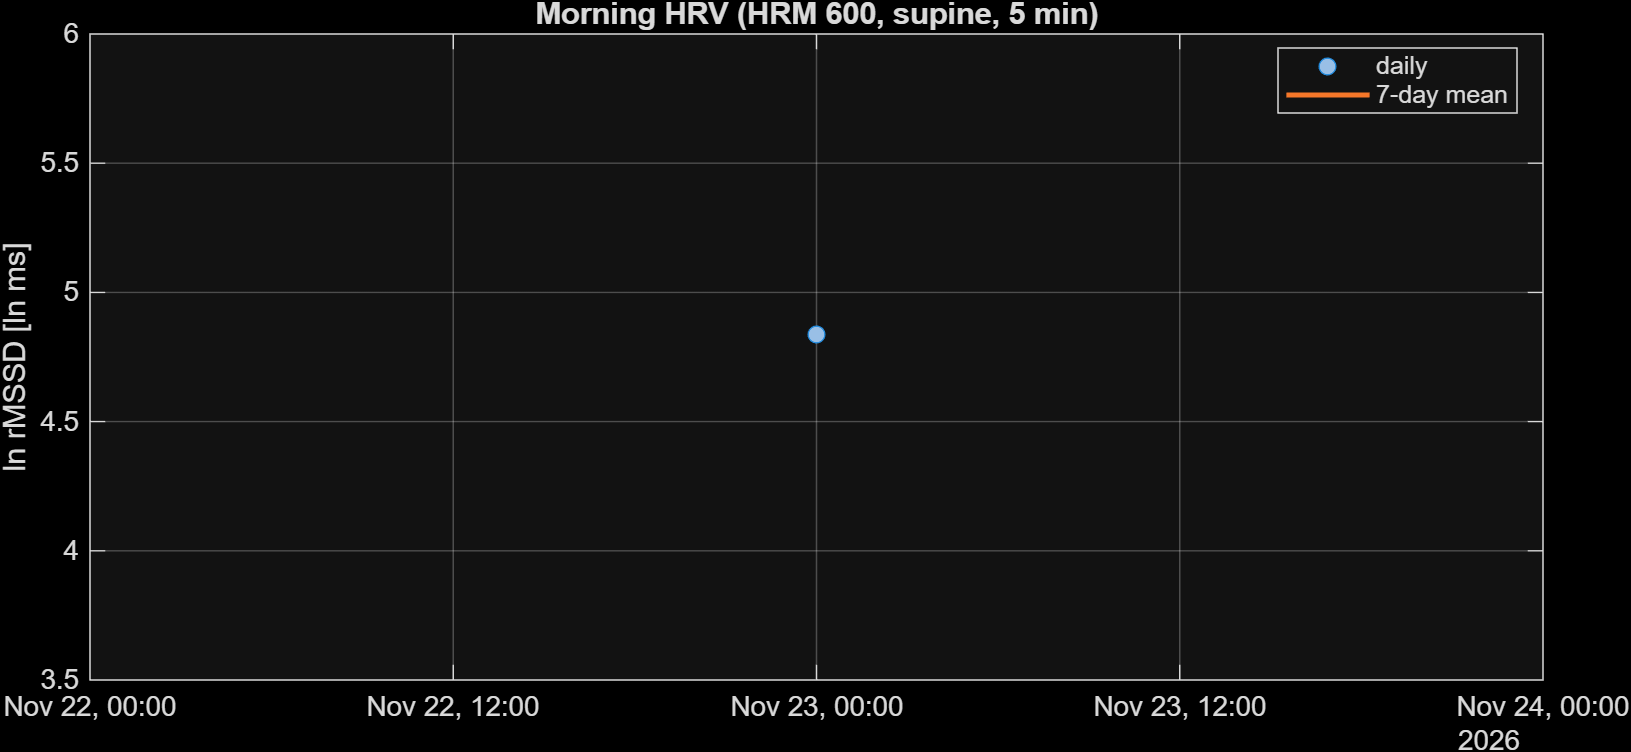
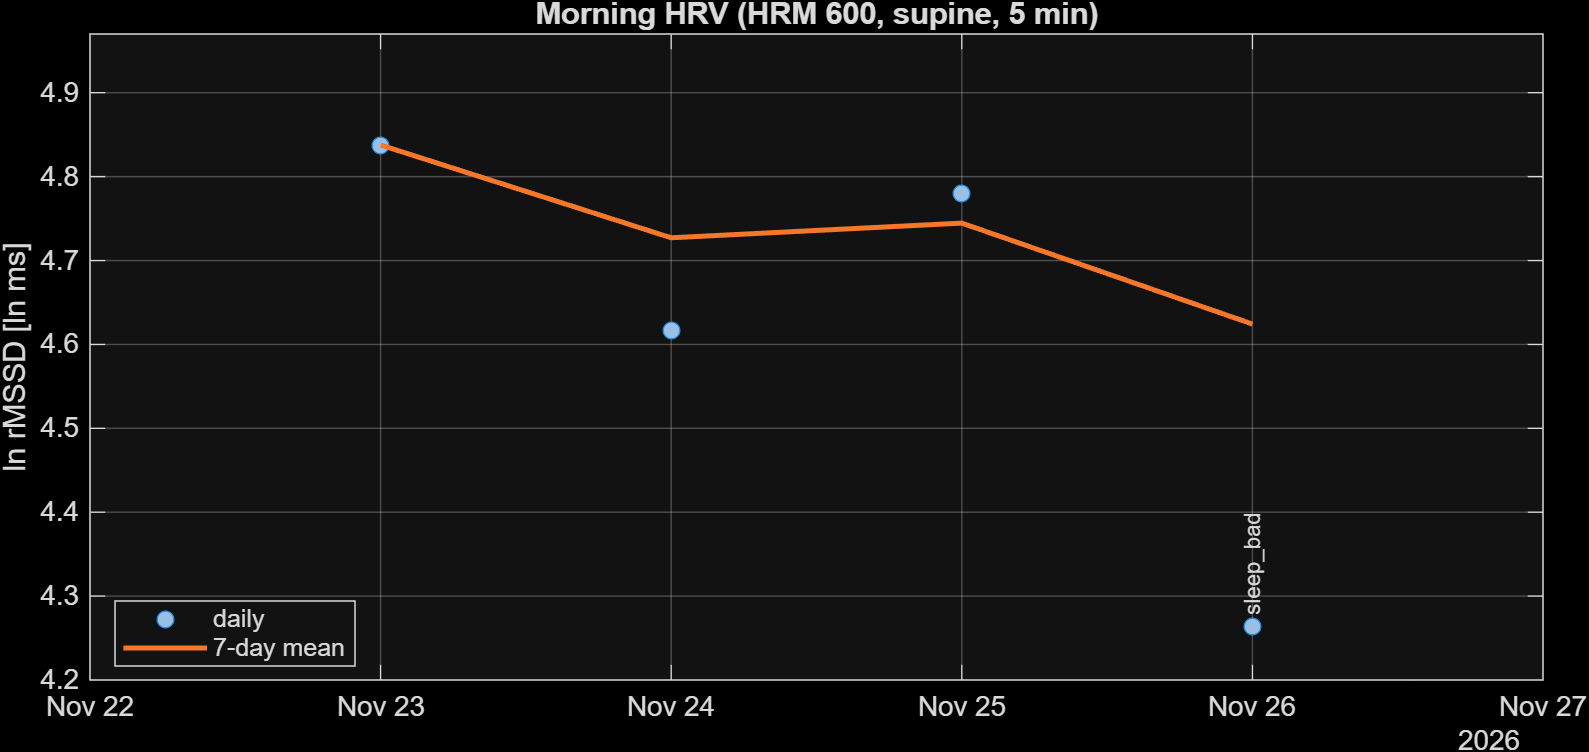
HRV: context notes (notes.csv), sensitivity without sick days

diff --git a/main_08_hrv.m b/main_08_hrv.m
@@ -4,7 +4,10 @@
 % Rules:  cfg.hrv (fixed on 23 Nov 2026, before the series is collected)
 %  - morning session = start between cfg.hrv.morning(1) and (2) o'clock;
 %    if a day has more than one, the last one is kept (a repeated measurement);
-%  - indices from hrv_session.m; the trend uses ln(rMSSD) and its 7-day mean.
+%  - indices from hrv_session.m; the trend uses ln(rMSSD) and its 7-day mean;
+%  - context notes (data/raw/hrv/notes.csv, rule of 26 Nov 2026): days with a tag
+%    stay in the main series; the only sensitivity check excludes the tags in
+%    cfg.hrv.sensExclude (illness is outside the training -> fatigue model).
 %
 % Outputs: results/hrv_morning.csv, results/fig12_hrv.png
 
@@ -37,20 +40,37 @@ T = sortrows(T, 'start');
 [~, last] = unique(T.day, 'last');                       % last session of each day
 T = T(last, :);
 
-% 7-day rolling mean of ln rMSSD over valid days (calendar window)
-T.ln7 = nan(height(T), 1);
-for i = 1:height(T)
-    w = T.valid & T.day > T.day(i) - days(7) & T.day <= T.day(i);
-    T.ln7(i) = mean(T.lnRmssd(w));
+% context notes
+N = read_hrv_notes(fullfile(H.dir, H.notesFile));
+T.tag = strings(height(T), 1);  T.note = strings(height(T), 1);
+[isN, loc] = ismember(T.day, N.day);
+T.tag(isN) = N.tag(loc(isN));  T.note(isN) = N.note(loc(isN));
+noMatch = setdiff(N.day, T.day);
+for i = 1:numel(noMatch)
+    fprintf('Note of %s has no morning session.\n', datestr(noMatch(i), 'dd-mmm-yyyy'));
+end
+T.sens = T.valid;                                         % sensitivity set
+for k = 1:numel(H.sensExclude)
+    T.sens = T.sens & ~contains(T.tag, H.sensExclude(k));
 end
 
-out = T(:, {'day','start','dur','nBeats','repeats','artFrac','hr','rmssd','lnRmssd','sdnn','ln7','valid','file'});
+% 7-day rolling mean of ln rMSSD (calendar window): main series and sensitivity
+T.ln7 = nan(height(T), 1);  T.ln7sens = nan(height(T), 1);
+for i = 1:height(T)
+    w = T.day > T.day(i) - days(7) & T.day <= T.day(i);
+    T.ln7(i)     = mean(T.lnRmssd(w & T.valid));
+    T.ln7sens(i) = mean(T.lnRmssd(w & T.sens));
+end
+
+out = T(:, {'day','start','dur','nBeats','repeats','artFrac','hr','rmssd','lnRmssd','sdnn', ...
+    'ln7','ln7sens','valid','tag','note','file'});
 writetable(out, fullfile(cfg.paths.results, 'hrv_morning.csv'));
 
-fprintf('\n  day          HR    rMSSD  lnRMSSD  art%%  valid\n');
+fprintf('\n  day          start  HR    rMSSD  lnRMSSD  ln7    art%%  valid  tag\n');
 for i = 1:height(T)
-    fprintf('  %s  %4.1f  %6.1f  %6.2f  %4.1f   %d\n', datestr(T.day(i), 'dd-mmm-yyyy'), ...
-        T.hr(i), T.rmssd(i), T.lnRmssd(i), 100 * T.artFrac(i), T.valid(i));
+    fprintf('  %s  %s  %4.1f  %6.1f  %6.2f  %5.2f  %4.1f   %d     %s\n', datestr(T.day(i), 'dd-mmm-yyyy'), ...
+        datestr(T.start(i), 'HH:MM'), T.hr(i), T.rmssd(i), T.lnRmssd(i), T.ln7(i), ...
+        100 * T.artFrac(i), T.valid(i), T.tag(i));
 end
 fprintf('Repeated beats removed in the last session: %d\n', T.repeats(end));
 
@@ -59,6 +79,13 @@ v = T.valid;
 plot(T.day(v), T.lnRmssd(v), 'o', 'MarkerFaceColor', [0.6 0.75 0.9]); hold on
 plot(T.day, T.ln7, '-', 'LineWidth', 1.8);
 if any(~v), plot(T.day(~v), T.lnRmssd(~v), 'x', 'Color', [0.6 0.6 0.6]); end
+iT = find(T.tag ~= "");
+for i = iT'
+    text(T.day(i), T.lnRmssd(i), "  " + T.tag(i), 'FontSize', 8, 'Rotation', 90, ...
+        'Interpreter', 'none');                           % keep the "_" in the tags
+end
+xlim([T.day(1) - days(1), T.day(end) + days(1)]);         % room for the labels at the ends
+yl = ylim;  ylim([yl(1), yl(2) + 0.1 * diff(yl)]);
 ylabel('ln rMSSD [ln ms]');  grid on
 legend({'daily', '7-day mean'}, 'Location', 'best');
 title('Morning HRV (HRM 600, supine, 5 min)');

diff --git a/src/hrv/read_hrv_notes.m b/src/hrv/read_hrv_notes.m
@@ -1,0 +1,35 @@
+function N = read_hrv_notes(file)
+%READ_HRV_NOTES  Read the context notes of the morning HRV (data/raw/hrv/notes.csv).
+%
+%   N = read_hrv_notes(file)
+%
+%   File format (one row only on particular days; several rows per day allowed):
+%       date,tag,note
+%       2026-11-26,sleep_bad,slept 5 hours
+%   Tags: sleep_bad, alcohol, sick, stress, travel, legs (free text is allowed).
+%   The note may contain spaces but no commas.
+%
+%   N  table with one row per day: day (datetime), tag (string, tags joined by
+%      ";"), note (string, notes joined by "; "). Empty table if the file is
+%      missing or has no rows.
+
+N = table(datetime.empty(0,1), strings(0,1), strings(0,1), 'VariableNames', {'day','tag','note'});
+if ~isfile(file), return; end
+
+fid = fopen(file, 'r');
+c = onCleanup(@() fclose(fid));
+fgetl(fid);                                            % header
+C = textscan(fid, '%s %s %s', 'Delimiter', ',', 'Whitespace', '', 'EndOfLine', '\r\n');
+d = strtrim(C{1});  tg = lower(strtrim(C{2}));  nt = strtrim(C{3});
+ok = ~cellfun(@isempty, d);
+d = d(ok);  tg = tg(ok);  nt = nt(ok);
+if isempty(d), return; end
+
+day = datetime(d, 'InputFormat', 'yyyy-MM-dd');
+[u, ~, g] = unique(day);
+N = table(u, strings(numel(u),1), strings(numel(u),1), 'VariableNames', {'day','tag','note'});
+for i = 1:numel(u)
+    N.tag(i)  = strjoin(string(tg(g == i)), ';');
+    N.note(i) = strjoin(string(nt(g == i)), '; ');
+end
+end

diff --git a/config.m b/config.m
@@ -161,4 +161,8 @@ function cfg = config()
     cfg.hrv.artTol     = 0.25;                     % [-]  artifact if |rr - median| > 25 %
     cfg.hrv.minDur     = 180;                      % [s]  minimum analysed time
     cfg.hrv.maxArt     = 0.05;                     % [-]  maximum artifact fraction
+    % context notes (rule of 26 Nov 2026): tagged days stay in the main series;
+    % one sensitivity check only, without the tags below.
+    cfg.hrv.notesFile   = 'notes.csv';
+    cfg.hrv.sensExclude = "sick";
 end
